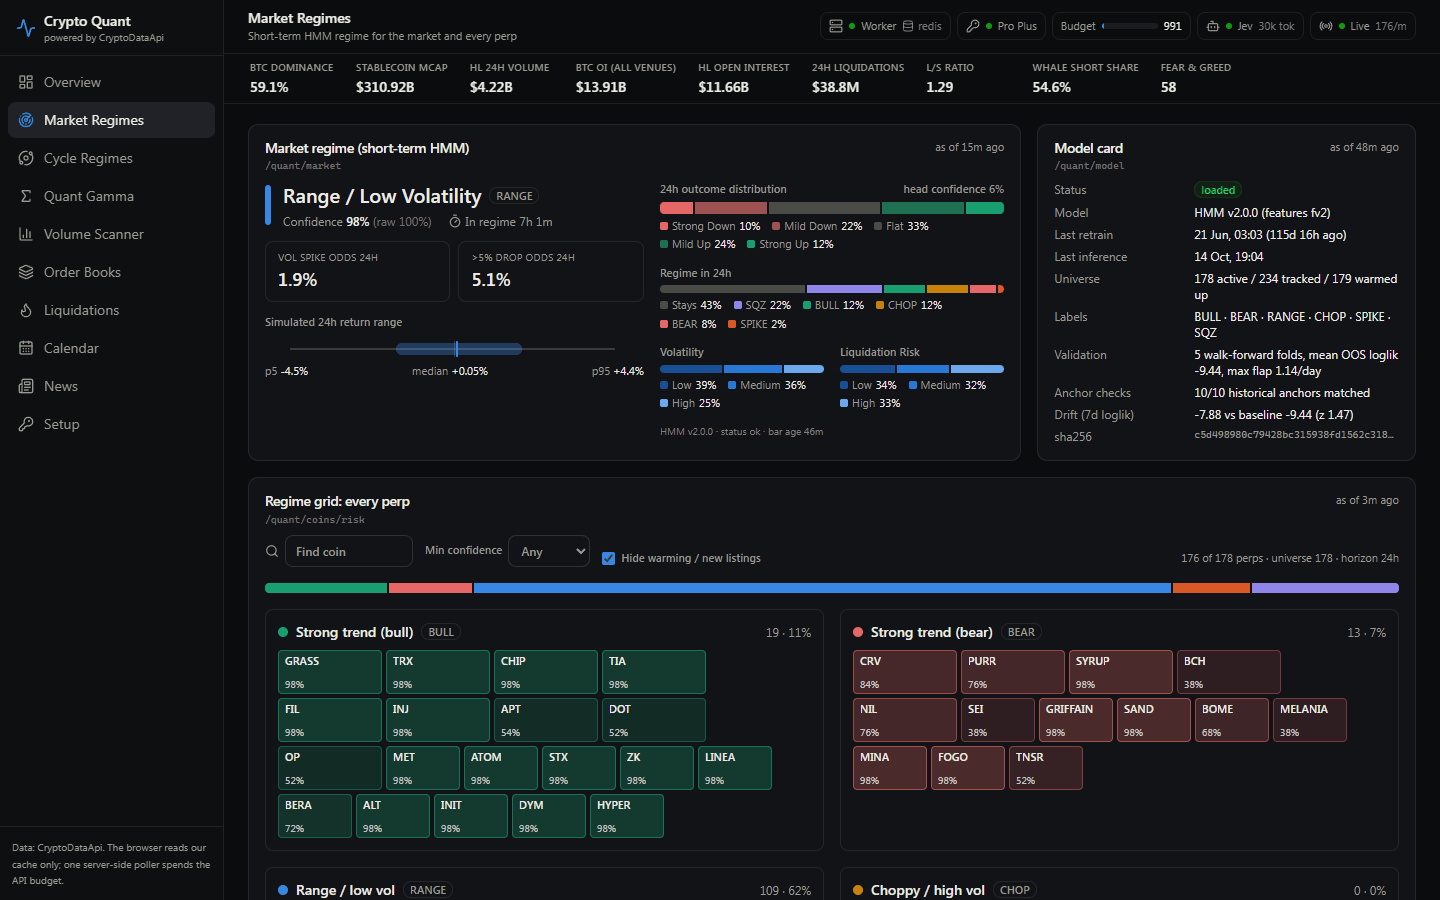
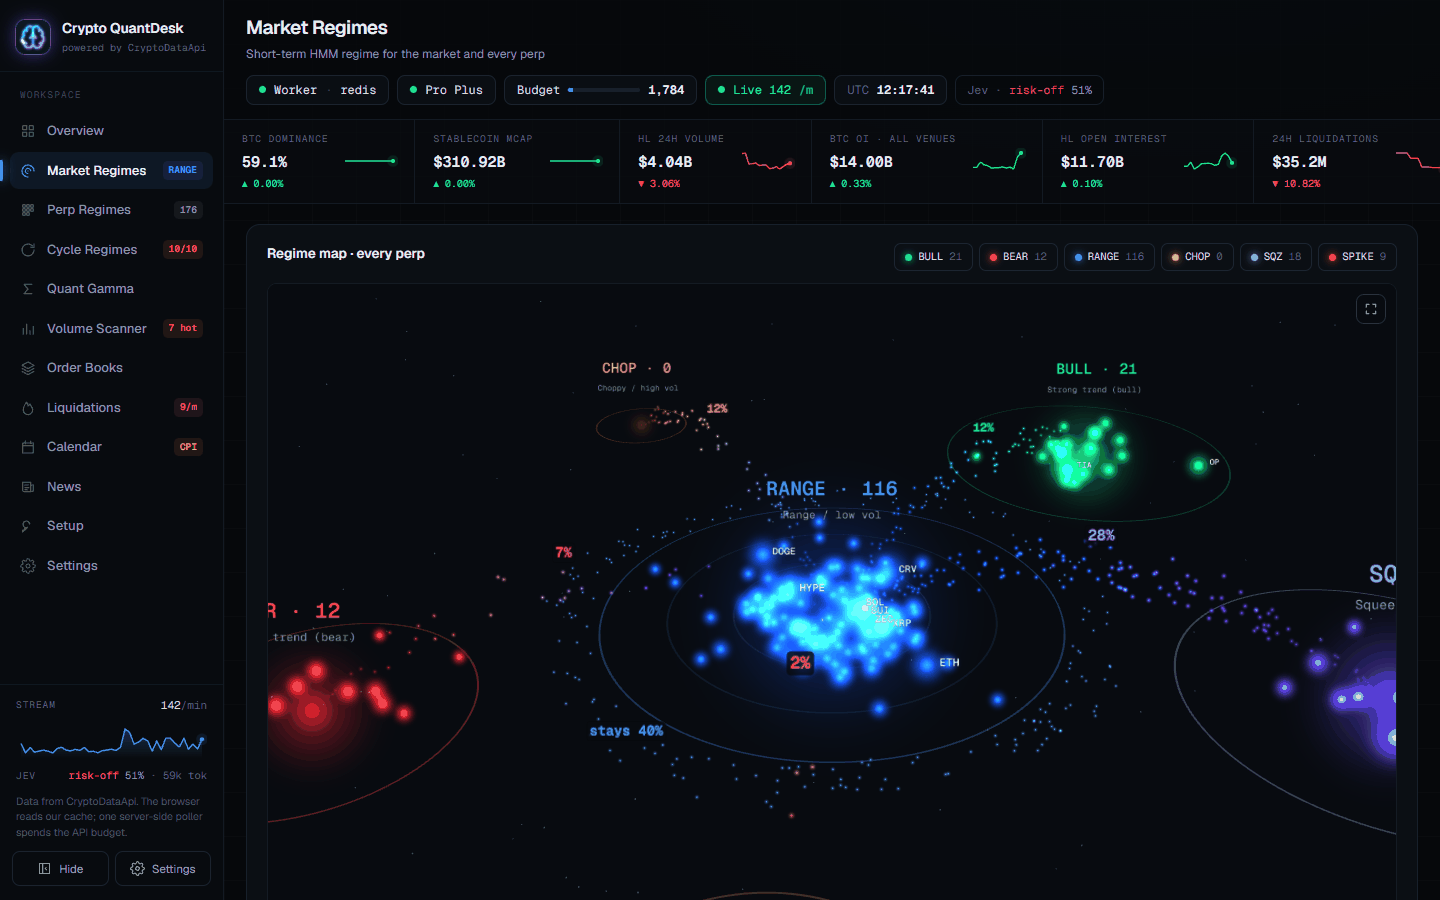
Rewrite the README and screenshots for the QuantDesk redesign
New pitch and an eight-view gallery captured from the live dashboard at
1440x900 with about an hour of recorded KPI history. The pages table adds
/perp-regimes and /settings; a Design section describes the prototype
port; the Jev section lists the quiet marks; the architecture covers the
KPI recorder, /kpi-history and the stream rate history; the rate-limit
table adds regimes-history. The news screenshot is dropped from the
gallery. The agent prompt is unchanged and still matches the /setup page.

diff --git a/README.md b/README.md
@@ -1,46 +1,56 @@
 # Crypto Quant Dashboard
 
 A real-time quant dashboard for Hyperliquid perps and the wider crypto market, powered by
-[CryptoDataApi](https://cryptodataapi.com) (CDA). Market regimes, cycle phases, dealer gamma,
-order-book depth, liquidations and market-moving news on one screen, with a second opinion from
-TypeSafe's Jev classifier. Every number comes from the CDA REST API or its live event stream; the
-app does not model anything CDA already computes.
+[CryptoDataApi](https://cryptodataapi.com) (CDA). Market regimes as a 3D galaxy, the 10-phase
+cycle ring, dealer gamma, order-book terrain, volume anomalies, liquidations as they print and the
+catalyst calendar, with a quiet second opinion from TypeSafe's Jev classifier. Every number comes
+from the CDA REST API or its live event stream; the app does not model anything CDA already
+computes.
 
 **[Open the live demo](https://crypto-data-api.github.io/crypto-quant-dashboard/)** (no key needed) ·
 [Set up with your agent](#set-up-with-your-agent) · [Quick start](#quick-start) ·
 [Demo mode](#demo-mode)
 
-[![Overview: market regime, Jev verdict, market health, cycle phase, liquidations and the live liquidation tape](docs/screenshots/overview.png)](docs/screenshots/overview.png)
+[![Overview: nine live views, from the regime galaxy and Monte Carlo fan to the gamma landscape, liquidity terrain and event horizon](docs/screenshots/overview.png)](docs/screenshots/overview.png)
 
 <table>
   <tr>
     <td width="50%" valign="top">
       <a href="docs/screenshots/market-regimes.png"><img src="docs/screenshots/market-regimes.png" alt="Market Regimes page"></a><br>
-      <b>Market Regimes.</b> The short-term HMM regime with its 24h outcome distribution, the model card, and every perp grouped by regime.
+      <b>Market Regimes.</b> Every perp clustered by its short-term regime, with the market's odds of each regime in 24h flowing out of the current one, and the Monte Carlo fan below.
     </td>
     <td width="50%" valign="top">
-      <a href="docs/screenshots/quant-gamma.png"><img src="docs/screenshots/quant-gamma.png" alt="Quant Gamma page"></a><br>
-      <b>Quant Gamma.</b> A dealer GEX analog per coin with gamma flip levels, funding and positioning, plus the gamma profile around the mark.
+      <a href="docs/screenshots/cycle-regimes.png"><img src="docs/screenshots/cycle-regimes.png" alt="Cycle Regimes page"></a><br>
+      <b>Cycle Regimes.</b> The 10-phase cycle ring in 3D, the current phase with CDA's bias and rationale, market health and the recent phase durations.
     </td>
   </tr>
   <tr>
     <td width="50%" valign="top">
-      <a href="docs/screenshots/liquidations.png"><img src="docs/screenshots/liquidations.png" alt="Liquidations page"></a><br>
-      <b>Liquidations.</b> Rolling 1h to 24h totals split long and short, a heatmap of the most liquidated coins, and the live tape.
+      <a href="docs/screenshots/quant-gamma.png"><img src="docs/screenshots/quant-gamma.png" alt="Quant Gamma page"></a><br>
+      <b>Quant Gamma.</b> Market-maker liquidation notional by distance from mark for each coin, gamma flip lines, today vs 30 days and the nearest clusters.
     </td>
     <td width="50%" valign="top">
-      <a href="docs/screenshots/news.png"><img src="docs/screenshots/news.png" alt="News page"></a><br>
-      <b>News.</b> The market-moving catalyst tape with CDA's bias beside Jev's read. A badge flags every event where the two disagree.
+      <a href="docs/screenshots/volume-scanner.png"><img src="docs/screenshots/volume-scanner.png" alt="Volume Scanner page"></a><br>
+      <b>Volume Scanner.</b> Every perp as a sphere: 24h price change across, multiplier vs its 30-day mean up, open interest in depth. Anything above the orange plane trades 2× normal.
     </td>
   </tr>
   <tr>
     <td width="50%" valign="top">
       <a href="docs/screenshots/order-books.png"><img src="docs/screenshots/order-books.png" alt="Order Books page"></a><br>
-      <b>Order Books.</b> Depth across the top 25 perps, then the focused coin's live L2 ladder and its 6-hour ±50 bps depth heatmap.
+      <b>Order Books.</b> The focused coin's live L2 ladder beside six hours of ±50 bps depth as a terrain, then depth across the top 25 perps.
     </td>
     <td width="50%" valign="top">
-      <b>Also in the app:</b> Cycle Regimes (the 10-phase cycle ring and playbook), Volume Scanner, Calendar
-      (event regime, macro calendar and token unlocks) and a Setup page with a copyable agent prompt.<br><br>
+      <a href="docs/screenshots/liquidations.png"><img src="docs/screenshots/liquidations.png" alt="Liquidations page"></a><br>
+      <b>Liquidations.</b> The last six minutes of forced closes as they print, rolling totals, the 24h heatmap and the live tape.
+    </td>
+  </tr>
+  <tr>
+    <td width="50%" valign="top">
+      <a href="docs/screenshots/calendar.png"><img src="docs/screenshots/calendar.png" alt="Calendar page"></a><br>
+      <b>Calendar.</b> Thirty days of unlocks, macro prints and depegs as a runway toward now, with the event risk score and the catalyst table.
+    </td>
+    <td width="50%" valign="top">
+      <b>Also in the app:</b> Perp Regimes (the regime grid for every perp), News (the catalyst tape with CDA's bias and Jev's read), Setup (keys and a copyable agent prompt) and Settings.<br><br>
       Screenshots are from a local instance with a Pro Plus key, 14 Oct 2026.
     </td>
   </tr>
@@ -50,32 +60,49 @@ app does not model anything CDA already computes.
 
 | Route | Page | Main CDA sources |
 |---|---|---|
-| `/` | Overview | `/quant/market`, `/market-health`, `/regimes`, `/market-intelligence/liquidations`, `/squeeze-alerts`, live stream |
-| `/market-regimes` | Market Regimes (short-term HMM) | `/quant/market`, `/quant/coins/risk`, `/quant/coins/{symbol}`, `/quant/model` |
-| `/regimes` | Cycle Regimes (10 phases) | `/regimes`, `/market-health`, six `/…/score` endpoints |
+| `/` | Overview (nine live views) | `/quant/market`, `/quant/coins/risk`, `/regimes`, `/quant/gex`, `/volume/scanner`, `/liquidity/depth/{coin}`, `/market-health`, `/squeeze-alerts`, `/event/calendar` |
+| `/market-regimes` | Market Regimes (short-term HMM) | `/quant/market`, `/quant/coins/risk`, `/quant/model` |
+| `/perp-regimes` | Perp Regimes (regime grid) | `/quant/coins/risk`, `/quant/coins/{symbol}` |
+| `/regimes` | Cycle Regimes (10 phases) | `/regimes`, `/regimes/history`, `/market-health`, six `/…/score` endpoints |
 | `/quant-gamma` | Quant Gamma (dealer GEX analog) | `/quant/gex`, `/quant/gex/history`, `/quant/positioning` |
 | `/volume-scanner` | Volume Scanner | `/volume/scanner`, `/volume/scanner/{symbol}` |
-| `/quant-order-books` | Order Books | `/liquidity/depth`, `/liquidity/depth/{coin}`, `/hyperliquid/l2-book`, `/liquidity/regime`, `/liquidity/oi-divergence` |
-| `/liquidations` | Liquidations | `/market-intelligence/liquidations`, `/liquidations/by-exchange`, `/squeeze-alerts`, live stream |
-| `/calendar` | Calendar | `/event/regime/score`, `/event/calendar`, `/event/regime/{symbol}`, `/supply/unlocks` |
+| `/quant-order-books` | Order Books | `/hyperliquid/l2-book`, `/liquidity/depth`, `/liquidity/depth/{coin}`, `/liquidity/regime`, `/liquidity/oi-divergence` |
+| `/liquidations` | Liquidations | live stream, `/market-intelligence/liquidations`, `/liquidations/by-exchange`, `/squeeze-alerts` |
+| `/calendar` | Calendar | `/event/calendar`, `/event/regime/score`, `/event/regime/{symbol}`, `/supply/unlocks` |
 | `/news` | Market-moving news | `/news/market-moving`, `/news/pulse`, `/news/sources`, `/news/coin/{symbol}` |
 | `/setup` | Setup | none: keys, demo status and the agent prompt below |
+| `/settings` | Settings | none: display, live feed, Jev, data mode and key status |
 
-A second opinion from TypeSafe's Jev classifier runs in the worker over the cached data: its read
-of each news catalyst, a cascade probability on squeeze alerts, and a market verdict card on the
-overview (see [Jev classifier](#jev-classifier-typesafe-system-one)). The news tape also appears as
-a compact panel beside the liquidation tape on `/liquidations`, and per-coin news appears in the
-Market Regimes coin drawer.
+Every page shares the sidebar (live badges per page: current regime, perps tracked, cycle phase,
+hot perps, liquidations per minute, today's macro print; the stream-rate graph and a one-line Jev
+read in its footer), the status pills (worker and cache, plan, daily budget, stream rate, UTC
+clock, Jev) and the KPI row, whose sparklines show history the worker records every 5 minutes.
+Every panel shows a "data as of" time, a stale tag, and an explicit state when there is no data:
+waiting for the first poll, Pro plan required, key rejected, rate limited, daily budget reached,
+fetch failed, worker offline, or not in the demo data.
 
-Every page shares the header stat strip and the system status pills (worker, API key, daily
-budget meter, Jev, stream source). Every panel shows a "data as of" time, a stale badge, and an
-explicit state when there is no data: waiting for the first poll, Pro plan required, key rejected,
-rate limited, daily budget reached, fetch failed, worker offline, or not in the demo data.
+**Status:** Phase 0 (foundation), Phase 1 (the pages), the market-moving news page, the Jev
+classifier, demo mode and the Crypto QuantDesk redesign from [docs/PLAN.md](docs/PLAN.md) and
+[docs/design](docs/design) are built and verified against live data with a Pro Plus key. Phase 2
+(history and backtesting) is unblocked by the Pro Plus key; its first datasets are registered.
 
-**Status:** Phase 0 (foundation), Phase 1 (the seven pages), the market-moving news page, the Jev
-classifier and demo mode from [docs/PLAN.md](docs/PLAN.md) are built and verified against live
-data with a Pro Plus key. Phase 2 (history and backtesting) is unblocked by the Pro Plus key; its
-first three datasets are already registered.
+## Design
+
+The UI follows the Claude Design prototype in [docs/design](docs/design) ("Crypto QuantDesk"):
+Geist and Geist Mono, a near-black palette with six accents, a collapsible 224/64px sidebar, and
+one card language for every page. The prototype's canvas charts and three.js scenes are ported to
+TypeScript in [apps/web/src/cq](apps/web/src/cq) with the same drawing code, fed by real data
+through small adapters instead of the prototype's mock engine. three.js loads on demand, so pages
+without 3D never download it.
+
+- Every 3D view orbits by drag and has a fullscreen button; auto-rotate follows the setting.
+- Display settings live in the browser under `cq.ui`: sidebar, live feed (off freezes the tape
+  and pauses the L2 ladder), auto-rotate, tape rows, default focus coin, Jev reads and KPI
+  sparklines. The sidebar's Settings button opens the quick toggles; `/settings` has all of them
+  plus data mode and key status (never the keys).
+- Where the prototype shows a number CDA does not publish, the app shows the nearest real field
+  or nothing. The Monte Carlo fan's animated paths are illustrative draws inside CDA's own p5,
+  median and p95; every labelled number is CDA's.
 
 ## Set up with your agent
 
@@ -182,11 +209,15 @@ The dashboard runs without any key, from real responses saved in [docs/samples](
   reads. While CDA itself is in demo, Jev is not called even with a key, because it would only
   classify saved samples.
 - **Live tape.** The tape plays CDA's free `/api/v1/stream/delayed` preview at its original pace
-  (about 30 minutes behind, labelled DELAYED PREVIEW). If the preview fails twice, the worker
-  replays the saved stream captures instead (labelled DEMO REPLAY) and retries the preview every
+  (about 30 minutes behind; the stream pill reads Delayed). If the preview fails twice, the worker
+  replays the saved stream captures instead (the pill reads Replay) and retries the preview every
   10 minutes. `STREAM_SOURCE=replay` forces the replay.
 - **Banner.** Every page shows a demo banner with the capture window and links to `/setup`, and
   `/api/status` reports `worker.demo`.
+- **KPI sparklines.** The keyless worker serves the KPI history a live worker recorded, saved in
+  `docs/samples/kpi-history.json` with `pnpm --filter @cqd/worker kpi:sample`; it records nothing
+  new from static samples. That recording was made after the panel snapshots, so each headline
+  value comes from the snapshot while its sparkline and change describe the recording window.
 - **Going live.** Set `CDA_API_KEY` (and optionally `TYPESAFE_API_KEY`) and restart the worker.
   Scheduled datasets are replaced by live data on the first poll.
 
@@ -198,7 +229,8 @@ python -m http.server 8080 -d apps/web/out   # or any static file server
 ```
 
 `build:static` turns `docs/samples` into `apps/web/public/samples` (one demo envelope per dataset
-and symbol, a manifest, the stream replay timeline and a status document), then runs `next build`
+and symbol, a manifest, the stream replay timeline, the replay's per-minute rate, the saved KPI
+history and a status document), then runs `next build`
 with `NEXT_PUBLIC_DATA_MODE=static` and `output: "export"`. The `/api` route handlers are named
 `route.api.ts`, and `api.ts` is a page extension only in server mode, so the export leaves them out.
 `GITHUB_PAGES=true` serves the site under `/crypto-quant-dashboard`.
@@ -260,16 +292,18 @@ Build-time only, for the static export: `NEXT_PUBLIC_DATA_MODE=static` (set by `
   | poller: dataset registry -> fetch -> Zod drift check -> envelope          |
   | stream relay: 1 SSE connection to CDA -> ring buffer (5,000 events)       |
   | demo: docs/samples -> seeded envelopes and stream replay when keyless     |
-  | HTTP :4100  /healthz  /status  /data/:dataset  /stream                    |
+  | KPI recorder: header KPIs from the cache every 5 min, 24h kept            |
+  | HTTP :4100  /healthz  /status  /data/:dataset  /kpi-history  /stream      |
   ---------------------------------------------------------------------------
           | envelopes, heartbeat, call counters        ^ on-demand interest
           v                                            |
-        Redis (cqd:data:*, cqd:demand, cqd:calls:*, cqd:worker:*)
+        Redis (cqd:data:*, cqd:demand, cqd:calls:*, cqd:worker:*, cqd:kpi:history)
           |
           v
   apps/web (Next.js 15) ------------------------------------------------------
   | /api/data/[dataset]  reads Redis; falls back to the worker's /data        |
-  | /api/status          worker heartbeat, budget, stream state               |
+  | /api/status          worker heartbeat, budget, stream state and rate      |
+  | /api/kpi-history     recorded header KPIs (Redis, then the worker)        |
   | /api/stream          same-origin SSE proxy to the worker's /stream        |
   | pages: TanStack Query on /api/data, EventSource on /api/stream            |
   ---------------------------------------------------------------------------
@@ -292,6 +326,10 @@ Build-time only, for the static export: `NEXT_PUBLIC_DATA_MODE=static` (set by `
 - **Redis fallback.** If Redis is unset or down, the worker keeps an in-memory cache and the
   web app reads through the worker's `/data` route. If neither is reachable the UI shows
   "Worker offline".
+- **Recorded history.** CDA has no intraday history for the header KPIs, so the worker samples
+  them from its own cache every 5 minutes (no extra calls) and keeps 24 hours, in memory and in
+  Redis. The stream hub reports events per minute for the last 40 minutes. Both start empty on a
+  fresh install and fill in as the worker runs.
 
 ### Stream fan-out decision
 
@@ -334,7 +372,7 @@ enforced in four layers.
    key is within 1% of its daily limit, it pauses keyed polling until 00:00 UTC and panels show
    "Daily budget reached". The Budget pill shows the dashboard's calls and the whole key's usage.
 
-Scheduled load at the registry's intervals is **326 calls/hour (7,824/day)**, about a quarter of the
+Scheduled load at the registry's intervals is **327 calls/hour (7,848/day)**, about a quarter of the
 dashboard's budget. The L2 ladder is the most expensive on-demand dataset at 240 calls/hour while
 the order-book page is open. Intervals follow CDA's own refresh cadences, so the extra Pro Plus
 headroom is left for on-demand reads and Phase 2 rather than spent on faster polling.
@@ -345,6 +383,7 @@ headroom is left for on-demand reads and Phase 2 rather than spent on faster pol
 | quant-coins-risk | `/quant/coins/risk` | 5 min | 12 |
 | quant-model | `/quant/model` | 60 min | 1 |
 | regimes | `/regimes` | 15 min | 4 |
+| regimes-history | `/regimes/history?from=…` (60 days) | 60 min | 1 |
 | market-health | `/market-health` | 5 min | 12 |
 | score-volatility, -policy, -security, -event, -meme | `/…/regime/score` | 15 min each | 20 |
 | derivatives-summary | `/derivatives/summary?coin=BTC` | 5 min | 12 |
@@ -401,10 +440,12 @@ caches the answers as three datasets. The web app reads them like any other data
 | `jev-squeeze` | Each active squeeze alert, with the coin's regime probabilities and liquidity regime | `cascade` noul: a genuine cascade likely to continue over the next hour | Every minute; one call per symbol, direction and UTC hour |
 | `jev-market-verdict` | Market regime, market health, cycle regime, news pulse top 10, squeeze summary, event risk | `stance` choice (risk_on, risk_off, neutral), `vol_expansion_24h` noul, `conviction` score 0 to 4 | Every 15 minutes |
 
-Where it shows: a Jev column beside CDA's bias in the `/news` tape (with a "Jev disagrees" badge
-when the direction differs from the sign of CDA's bias, and an agree/disagree filter), the same read
-in the liquidations news panel and coin drawers, a cascade pill on squeeze alerts, and a verdict
-card next to the hero regime card on the overview with a "what Jev saw" list of input as-of times.
+Where it shows, kept quiet: a muted "Jev · risk-off 62%" pill in the status row that opens the
+market read (stance, 24h vol expansion, conviction and a "what Jev saw" list of input as-of
+times), a one-line read in the sidebar footer, a small mark beside CDA's bias on each `/news` row
+(with "≠ CDA" when the direction differs from the sign of CDA's bias, and an agree/disagree
+filter), the same mark in coin drawers, and a cascade mark on squeeze alerts. Settings can hide
+all of it.
 
 **Costs.** TypeSafe bills input tokens only. Measured per call: about 600 input tokens for a news
 event, 1,100 for a squeeze alert and 2,700 for the market verdict. A quiet day is roughly
@@ -437,10 +478,12 @@ crypto-quant-dashboard/
   apps/
     web/                    Next.js 15 App Router, Tailwind v4, shadcn-style UI, TanStack Query
       src/app/              pages and /api routes (route.api.ts: data, status, stream)
-      src/components/       app shell (demo banner, status pills), Panel (freshness + states), charts, ui
-      src/features/         one folder per page area (market, regimes, gamma, volume, books,
-                            liquidations, calendar, news, setup)
-      src/lib/              hooks (datasets, stream, clock), mode.ts (server or static), formatting
+      src/cq/               ported prototype views: canvas charts, three.js scenes, adapters, theme
+      src/components/       app shell (sidebar, status pills, KPI row, settings popover, demo
+                            banner), Panel (freshness + states), ui primitives
+      src/features/         one folder per page area (overview, market, regimes, gamma, volume,
+                            books, liquidations, calendar, news, jev, setup, settings)
+      src/lib/              hooks (datasets, stream, clock), live tape, settings (cq.ui), mode.ts
       src/server/store.ts   Redis reader with worker fallback
       scripts/build-static.ts   static export for GitHub Pages
     worker/                 long-lived Node process
@@ -448,6 +491,7 @@ crypto-quant-dashboard/
       src/budget.ts         daily budget governor
       src/cache.ts          memory cache with Redis mirror, demand set, call counters
       src/demo.ts           keyless demo: loads docs/samples, seeds envelopes, stream replay events
+      src/kpi-history.ts    header KPI recorder (every 5 minutes, 24 hours kept)
       src/stream/           CDA SSE relay, delayed preview, demo replay, fan-out hub
       src/jev/              TypeSafe Jev client (SDK wrapper), question sets, state builders, classifier
       src/http.ts           /healthz, /status, /data/:dataset, /stream
@@ -459,7 +503,7 @@ crypto-quant-dashboard/
     samples/                verbatim Pro Plus responses for every endpoint used, with index.json;
                             also the data behind both demo modes
     screenshots/            README images
-    design/                 Claude Design reference export for the redesign
+    design/                 Claude Design prototype the UI follows (HTML, charts, scenes, engine)
   .github/workflows/        ci.yml (typecheck, lint, samples, build), pages.yml (static demo)
   docker-compose.yml        local Redis
 ```
@@ -476,6 +520,7 @@ crypto-quant-dashboard/
 | `pnpm --filter @cqd/schemas check-samples` | Validates every file in `docs/samples/` against the schemas (stream samples event by event) and fails if a dataset or the stream has no demo sample. |
 | `pnpm --filter @cqd/web build:static` | Static demo export to `apps/web/out` (add `GITHUB_PAGES=true` for the Pages base path). |
 | `pnpm --filter @cqd/web samples:static` | Regenerates only `apps/web/public/samples` from `docs/samples`. |
+| `pnpm --filter @cqd/worker kpi:sample` | Saves a running worker's recorded KPI history as the demo sample (no CDA calls). |
 | `pnpm redis:up` / `pnpm redis:down` | Starts or stops the local Redis container. |
 
 ## Decisions that differ from PLAN.md
@@ -491,8 +536,8 @@ crypto-quant-dashboard/
 - **Depth heatmap from CDA's own history.** The ±50 bps heatmap uses
   `/liquidity/depth/{coin}?minutes=360` instead of snapshots we would have to accumulate, so it is
   complete the moment a coin is focused.
-- **Header stat strip.** None of the Phase 1 endpoints exposes total crypto market cap or total
-  24h volume. The strip shows stablecoin market cap and Hyperliquid 24h volume in their place,
+- **Header KPI row.** None of the Phase 1 endpoints exposes total crypto market cap or total
+  24h volume. The row shows stablecoin market cap and Hyperliquid 24h volume in their place,
   plus BTC dominance and 24h liquidations from `/regimes` signals, BTC OI across venues, Hyperliquid
   OI, the BTC long/short ratio, whale short share and Fear & Greed.
 - **Playbook leverage.** `/regimes` publishes directional bias and typical duration but no leverage
@@ -503,6 +548,13 @@ crypto-quant-dashboard/
   automatically from `/auth/keys/me` if the key's tier changes.
 - **Demo from saved responses.** Keyless runs and the static site show real captured data with a
   badge, rather than empty "API key not configured" panels.
+- **Status pills in the header.** The exported prototype moves worker, plan, budget and clock into
+  a sidebar block and leaves its KPI row empty; the app keeps the status pill row and the KPI row
+  with sparklines shown in the prototype's reference screenshots.
+- **Prototype numbers CDA lacks.** The squeeze radar plots only the coins CDA lists (those at or
+  above the alert severity); the cycle view shows stability instead of "progress through phase"
+  and CDA's bias, horizon, description and rationale instead of a written playbook; the liquidity
+  terrain spreads CDA's 0-10, 10-25 and 25-50 bps bands over 2 bps rows.
 
 ## Known gaps
 
